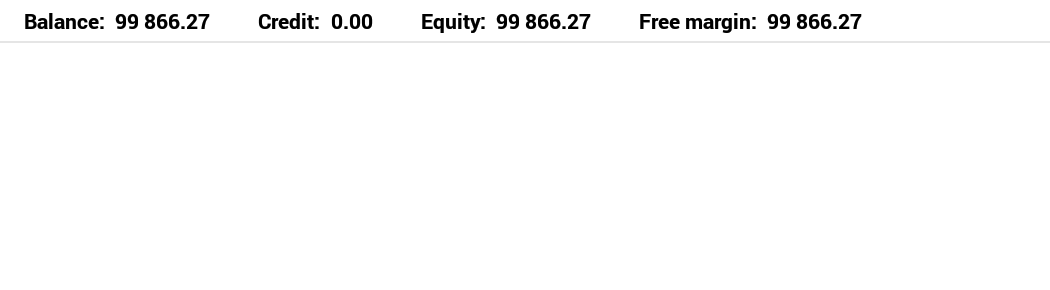
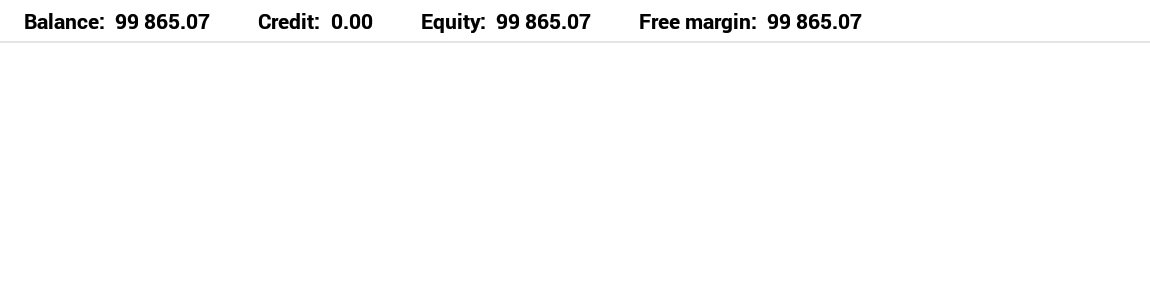
done

Changed region(s): [[0.0, 0.031, 0.8229, 0.1241]]

diff --git a/server.js b/server.js
@@ -29,6 +29,7 @@ const fs = require("fs");
 const app = express();
 const expressWs = require("express-ws")(app);
 const bodyParser = require("body-parser");
+const path = require('path');
 const {extractTradeData, modifyVolume} = require('./utils')
 
 app.use(bodyParser.json()); // support json encoded bodies
@@ -43,8 +44,9 @@ let delay = argv.delay || 100;
 let autoit;
 const PERCENTAGE = argv.percentage || 0.1;
 
+const accountsExePath = path.join(__dirname, 'account_list');
 const updateAccounts = () => {
-  accounts.data = execSync(__dirname + '/account_list').toString().replace(/;$/,"").split(/\s*;\s*/);
+  accounts.data = execSync(accountsExePath).toString().replace(/;$/,"").split(/\s*;\s*/);
   if(!accounts.selected) accounts.selected = accounts.data[0];
   setTimeout(updateAccounts, 1000);
 }
@@ -56,6 +58,7 @@ const stopAutoIT=()=>{
   }
 }
 
+const tradeExePath = path.join(__dirname, 'trade');
 const startAutoIT=()=>{
   stopAutoIT();
 
@@ -63,7 +66,7 @@ const startAutoIT=()=>{
   const ACCOUNT_ID = accounts.selected;
 
   // spawn can use current directory
-  autoit = spawn('trade', [], {env:{ACTION, ACCOUNT_ID}});
+  autoit = spawn(tradeExePath, [], {env:{ACTION, ACCOUNT_ID}});
   autoit.stdout.on('data', (data) => {
     console.log(`stdout: ${data}`);
   });
@@ -90,7 +93,7 @@ const sendTradeMessage = () => {
     device: argv.deviceTrade,
     image: "public/trade.png",
     top:  210,
-    right:  550 
+    right:  450
   });
 };
 
@@ -99,7 +102,7 @@ const sendHistoryMessage = () => {
     device: argv.deviceHistory,
     image: "public/history.png",
     top:  210,
-    right:  550 
+    right:  550  // no need to extract stop loss and take profit 
   });
 };
 
@@ -169,7 +172,9 @@ app.post("/accounts", (req,res)=>{
   // restart with new account
   if(accounts.selected !== req.body.selected){
     accounts.selected = req.body.selected;
-    startAutoIT();
+    if(state.start) {
+      startAutoIT();
+    }
   }
   res.send(accounts);
 });

diff --git a/test_regular.js b/test_regular.js
@@ -2,23 +2,16 @@
 const {extractTradeData,modifyVolume} = require('./utils')
 
 
-const trade = `2167764 2019.12.18 01:35 sell limit 0.01 EURUSD 1.11357
-2167740 2019.12.18 01:35 sell 0.01 EURUSD 1.11357
-2167764 2019.12.18 01:35 buy limit 0.01 EURUSD 1.11357
-2167764 2019.12.18 01:35 sell limit 0.01 EURUSD 1.11357
-Balance: 99 867.52 Credit: 0.00 Equity: 99 867.42 Margin: 4.45 Free margin: 99 862.97`
+const trade = `Balance: 99 865.07 Credit: 0.00 Equity: 99 865.07 Free margin: 99 865.07
+2169037 2019.12.19 04:00 _ sell stop 0.01 EURUSD 1.11240 1.11340 1.11140`
 
-const history = `2168040 2019.12.1805:16 - sell limit 0.01 EURUSD 1.11363
-2168036 2019.12.18 05:11 - sell limit 0.01 EURUSD 1.11394
-2167992 2019.12.18 04:52 - sell limit 0.01 EURUSD 1.11394
-2167737 2019.12.17 22:57 _ sell limit 0.01 EURUSD 1.11356
-2167730 2019.12.17 22:02 - buy limit 0.01 EURUSD 1.11320
-2166680 2019.12.17 04:31 sell 0.01 EURUSD 1.11393
-2166550 2019.12.17 03:13 buy 0.01 EURUSD 1.11400
-2157362 2019.12.11 14:15 sell 0.11 EURUSD 1.11089
-2157322 2019.12.11 14:15 sell 0.01 EURUSD 1.11113
-2157320 2019.12.11 14:15 sell 0.01 EURUSD 1.11112`
+const history = `2169022 2019.12.19 08:39 buy 0.01 EURUSD 1.11266 2019.12.19 (
+    2169020 2019.12.19 08:38 sell 0.01 EURUSD 1.11241 2019.12.19 (
+    2168944 2019.12.19 02:54 sell 0.01 EURUSD 1.11274 2019.12.19 (
+    2168933 2019.12.19 02:49 buy 0.01 EURUSD 1.11308 2019.12.19 (
+    2168929 2019.12.19 02:48 buy 0.01 EURUSD 1.11319 2019.12.19 (
+    2168926 2019.12.19 02:47 sell 0.01 EURUSD 1.11295 2019.12.19 (`
 
-let data = extractTradeData(history);
+let data = extractTradeData(trade);
 data = modifyVolume(data, 0.1);
 console.log(data)

diff --git a/utils.js b/utils.js
@@ -11,14 +11,15 @@ class MyRegExp extends RegExp {
 }
 
 
-const tradeHeaders = ["orderID", "time", "type", "volume", "symbol", "price"];
-const reTrade = new MyRegExp(`(\\d+)\\s+([\\d\\.]+\\s*[\\d\\:]+)\\s+((?:sell|buy)(?:\\s+(?:limit|stop))?)\\s+([\\d\\.]+)\\s+([A-Z]+)\\s+([\\d\\.]+)`, 'g');
+const tradeHeaders = ["orderID", "time", "type", "volume", "symbol", "price", "sl", "tp"];
+const floatGroup = `([0-9]+\\.[0-9]+)`;
+const reTrade = new MyRegExp(`(\\d+)\\s+([\\d\\.]+\\s*[\\d\\:]+)\\s+((?:sell|buy)(?:\\s+(?:limit|stop))?)\\s+${floatGroup}\\s+([A-Z]+)\\s+${floatGroup}(?:\\s+${floatGroup}\\s+${floatGroup})?`, 'g');
 
 const toObject = (names, match) => {
     const values = match.slice(1, names.length + 1)
     const result = {};
     for (var i = 0; i < names.length; i++)
-         result[names[i]] = values[i];
+         result[names[i]] = values[i] || "";
     result.type = result.type.replace(/(?=\b)\w/g, c => c.toUpperCase())
     return result;
 };

diff --git a/test_extract.js b/test_extract.js
@@ -14,6 +14,8 @@ if (platform === "win32") {
   };
 }
 
+env.PADDING_BOTTOM = 400;
+
 const { fork } = require("child_process");
 const argv = require("yargs").argv;
 
@@ -28,10 +30,11 @@ childProcess.send({
   device: argv.device,
   image: argv.image,
   top: argv.top || 210,
-  right: argv.right || 550 
+  right: argv.right || 450 
 });
 
 // listen for messages from forked childProcess
 childProcess.on("message", message => {
    console.log(message.rawData);
+   childProcess.kill();
 });
